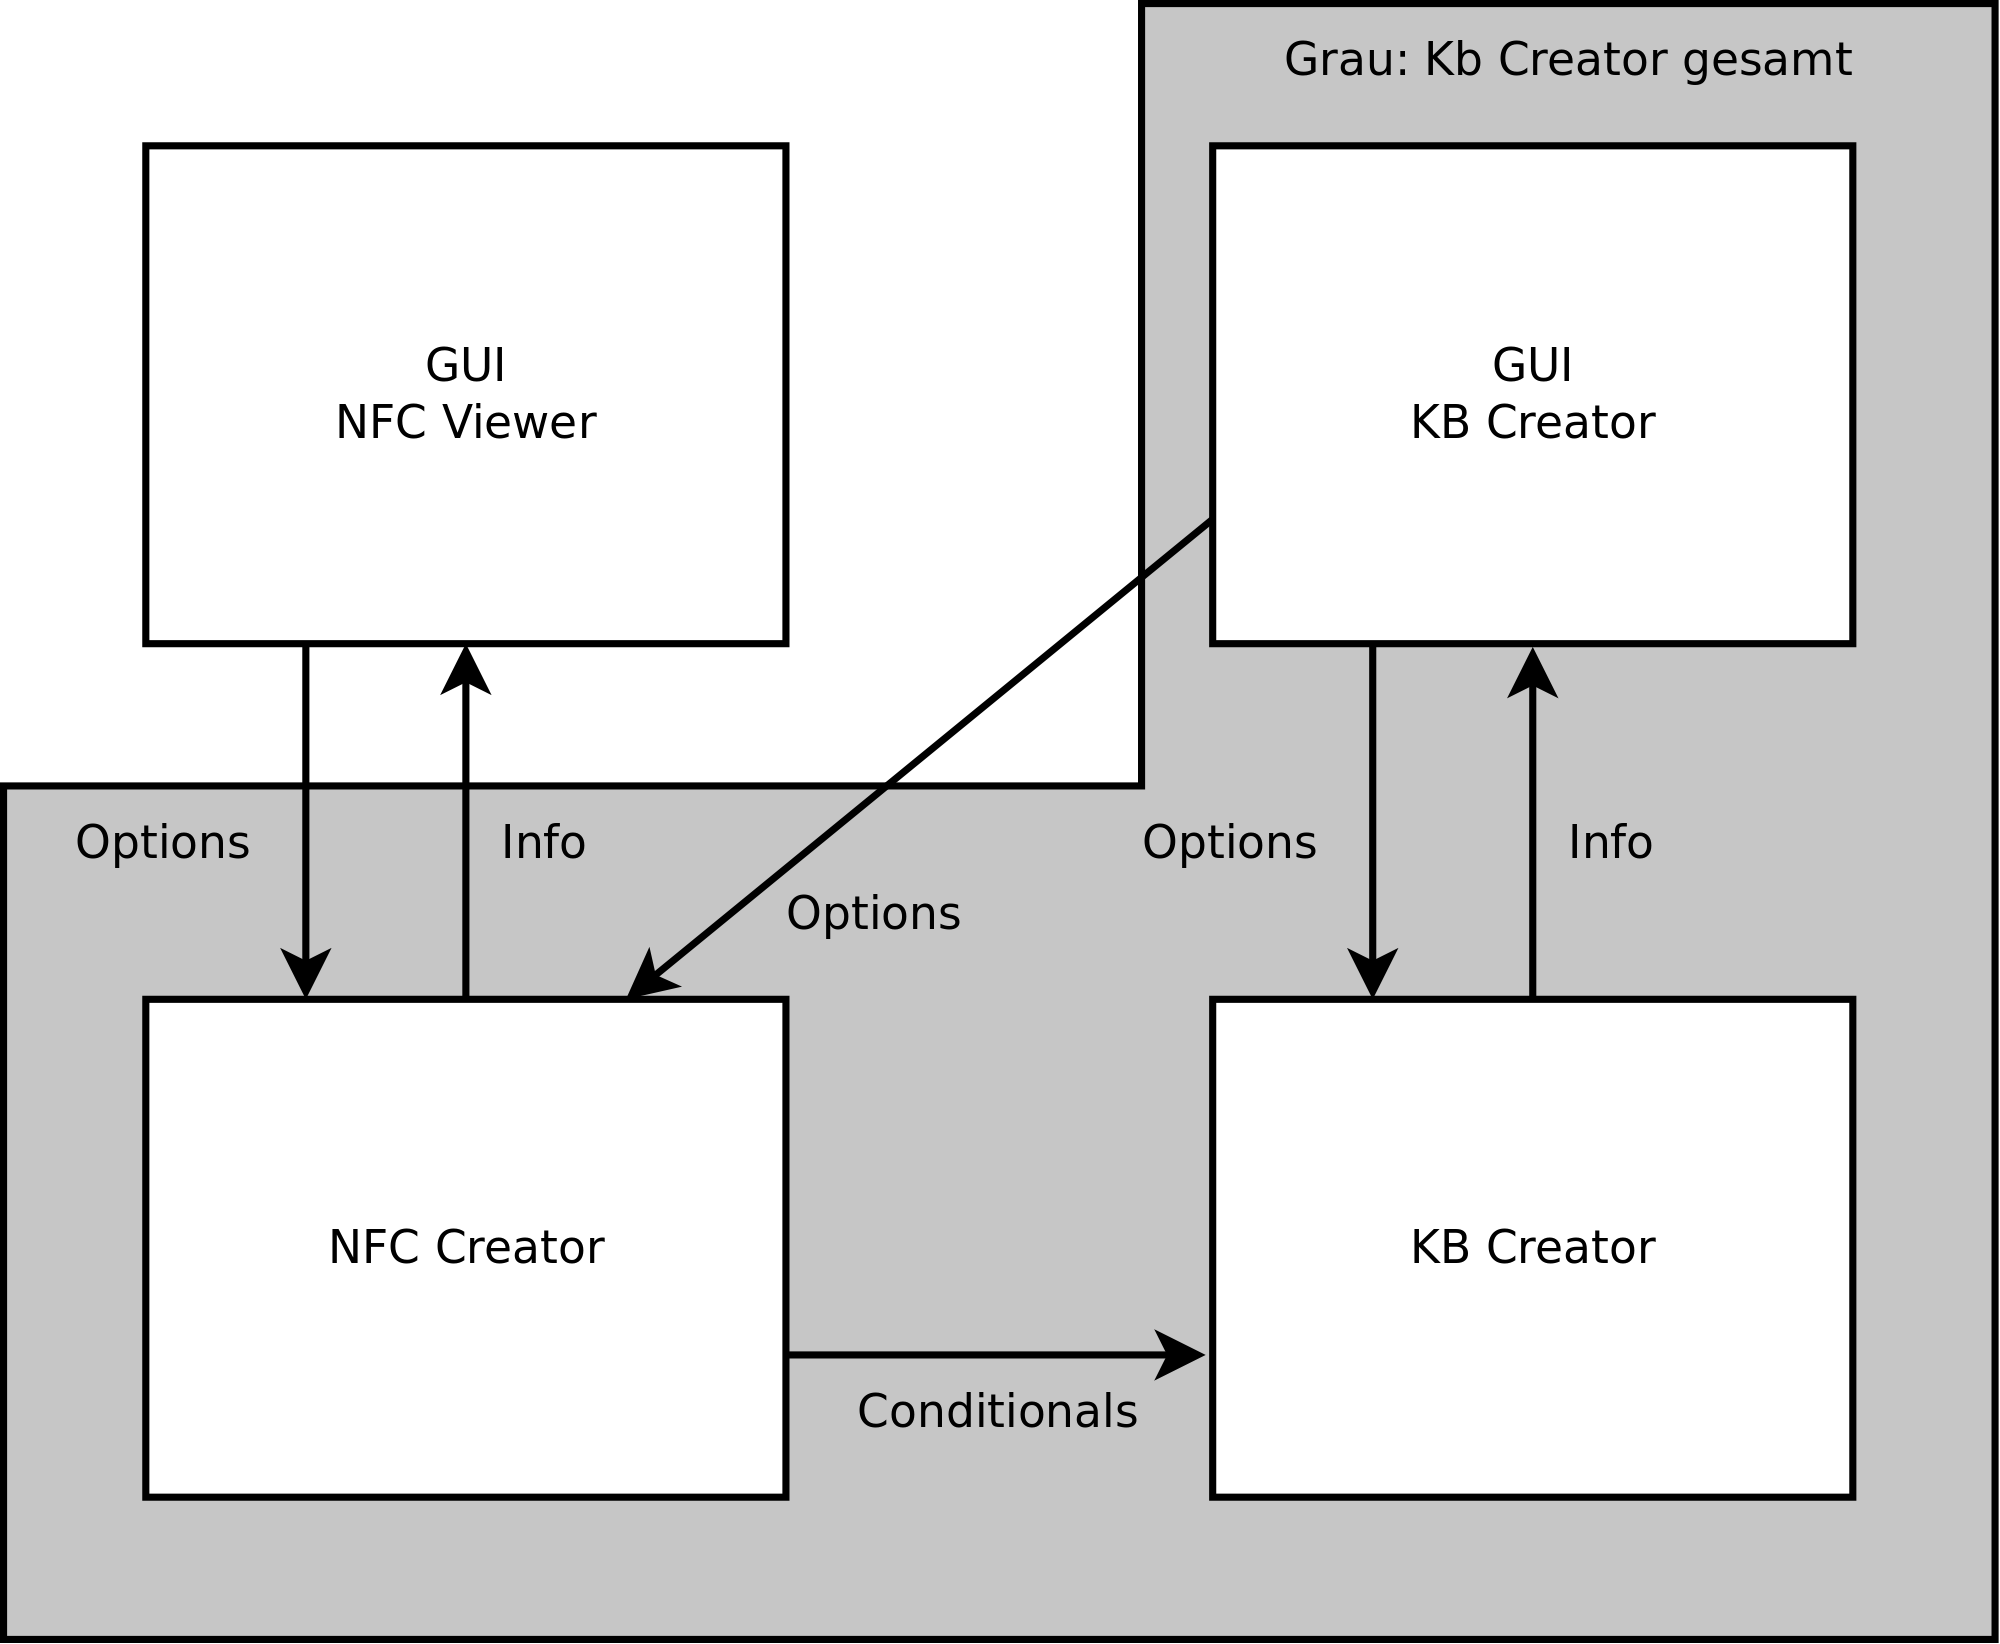
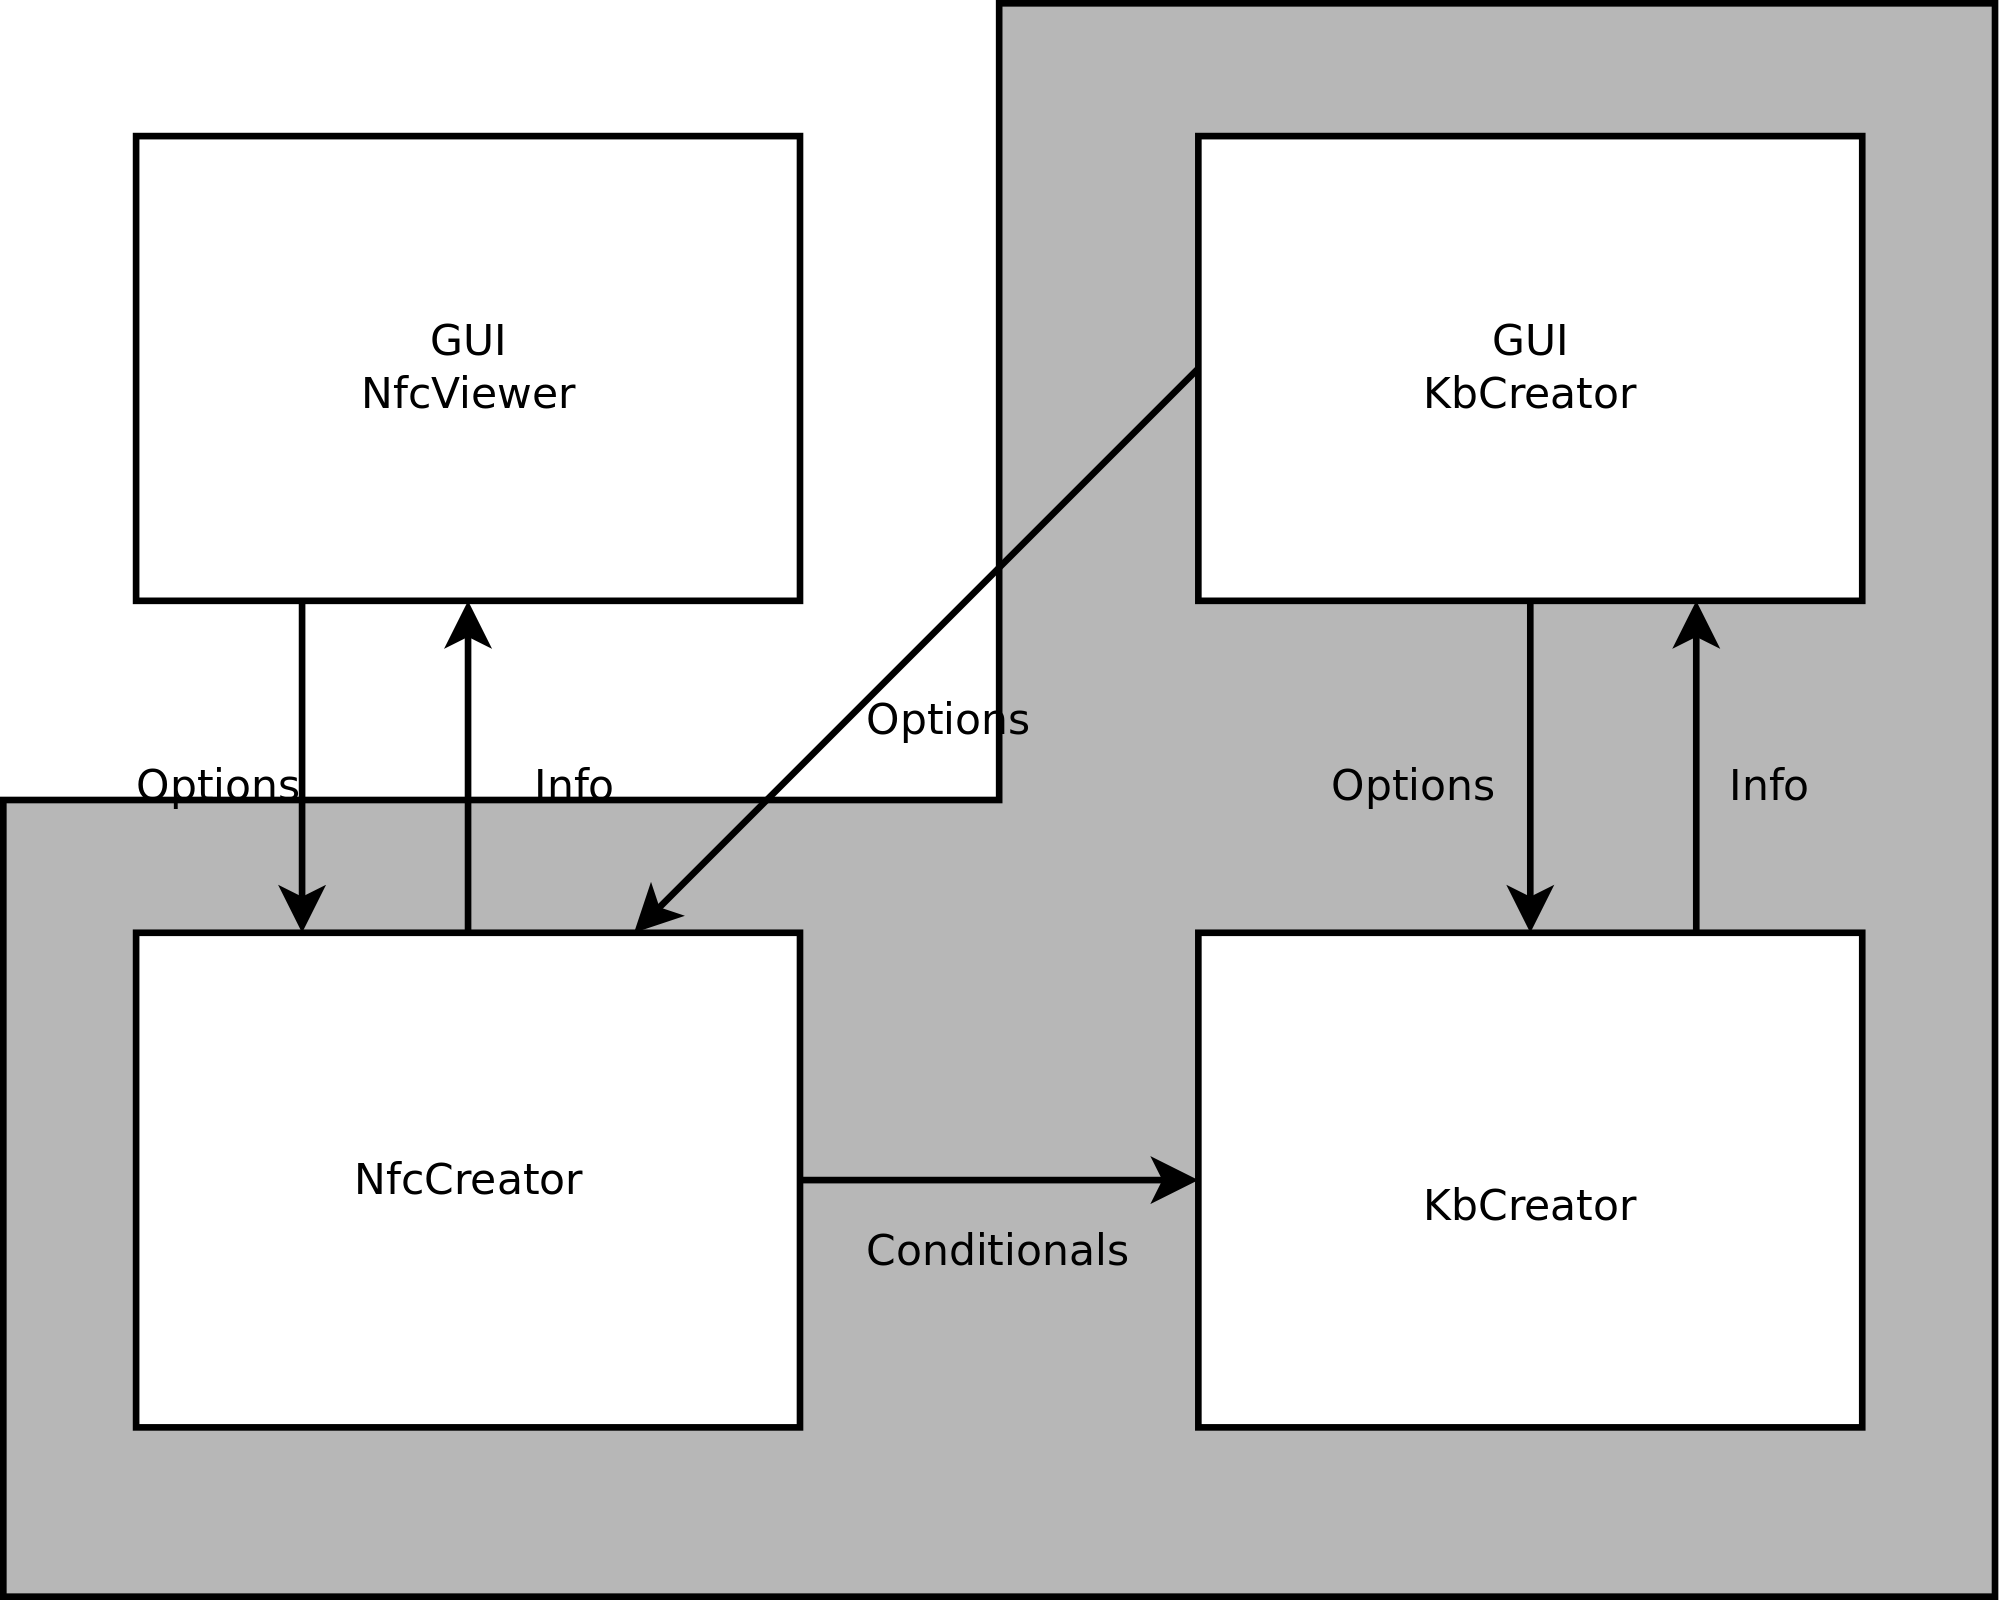
updated todo

diff --git a/ma.tex b/ma.tex
@@ -227,9 +227,8 @@ mit $r \rdotl r'$ gdw. $r\dotl r'$ für alle $i \in \{1, ..., m\}$ und alle $r, 
 Das beschriebene Programm zum Generieren von Wissensbasen ist komplett in Java geschrieben und erfordert zur Benutzung Java in der Version 1.8 oder höher. Neben der von Java standardmäßig mitgebrachten Runtime Environment werden keine weiteren externen Bibliotheken benötigt.
 \subsection{Struktur des Programms}
 In \autoref{pic:overview} ist ein Gesamtüberblick auf das erstelle Programm zu sehen. Die drei Elemente die sich im grau hinterlegten Bereich befinden sind für das generieren der Wissensbasen zuständig. Oben rechts ist die GUI abgebildet, in der zu Programmstart Optionen gesetzt werden und während des Programmablaufs Informationen zum aktuellen Programmzustand angezeigt werden. Unten links befindet sich der NfcCreator, hier werden die Konditionale NFC anhand der eingestellten Optionen erstellt. Diese Konditionale werden dann an den KbCreator übergeben, welcher für die eigentliche Generierung der Wissensbasen zuständig ist. Der KbCreator ist mit Abstand der komplexeste Teil des Programms und wird im nächsten Abschnitt noch genauer dargestellt. Die GUI oben links NfcViewer ist optional und kann genutzt werden um die Konditionale nach verschiedenen Optionen zu erzeugen, zu betrachten und zu speichern.
-\\todo: groß/kleinschreibung wie im programm
 \begin{figure}
-\includegraphics[width=0.6\linewidth]{bilder/overview.png}
+\includegraphics[width=0.7\linewidth]{bilder/overview.png}
 
 \caption{Gesamtübersicht über das erstelle Programm}
 \label{pic:overview}
@@ -239,7 +238,7 @@ In \autoref{pic:overview} ist ein Gesamtüberblick auf das erstelle Programm zu 
 
 \subsection{Threading}
 todo
-hier threading!
+threading besser zu kb creator? auf jeden fall dafür eine übersicht mit dia
 
 \section{Berechnung der Konditionale}
 
@@ -664,11 +663,9 @@ Die \textit{equals(Object o)} Methode der Klasse PCodnitional ist der Einfachhei
 In diesem Abschnitt wird beschrieben, wie die Konditionale aus der Form als Instanzen von WConditional als Instanzen von PConditional übertragen werden. Genauer gesagt ist der interessante Teil, wie Antecedent und Consequence jeweils aus der Form WorldsList in die Form AbstractFormula gebracht werden. \\
 Dabei sind zwei grundsätzliche Vorgehensweisen vorstellbar: Zum ersten der Ansatz, der im Folgenden als \textit{nativer} Ansatz benannt wird: Die Liste der möglichen Welten wird einfach als Disjunktion von Konjunktionen aufgefasst. Als Beispiel, unter Signatur $\Sigma_{ab}$ sei Liste Möglicher Welten $ab, !ab$ gegeben. Dann ist der aussagenlogische Term dafür $(a \wedge b) \vee (\overline{a}\wedge b)$. Dieser Term ist recht umständlich, aber korrekt. Man bedenke auch, dass mit der Signatur $\Sigma_{abc}$ durch 8 mögliche Welten noch wesentlich umständlichere Terme entstehen werden. Der zweite Ansatz für die Übersetzung ist, den kürzesten möglichen Term zu suchen. Im genannten Beispiel ist das $a$. Das ist allerdings weit weniger einfach automatisierbar wie die erste Variante. \\
 Es wäre naheliegend, dass die zweite Variante, da sie oft wesentlich kürzere Terme erzeugt, schneller sein sollte als die erste. Um den möglichen Geschwindigkeitsunterschied beider Ansätze zu testen, sind beiden Varianten im Programm implementiert.\\
-\\todo: translator beschreiben \\
-conjunktive normalform? das ist die einfache translation. siehe dazu auch \cite{beierle19b} s. 40 dazu. das ist ok so? \\
-tests mit translator: translated ca 245s ohne translation etwa 270s.
-mit beiden varianten im objekt auch etwa 270s !! liegt das an der objektgröße?! muss ja \\
-also translation nur sinnvoll, wenn so geschrieben werden kann.
+\\todo: translator beschreiben. auch den versuch beschreiben. und bei normalform bleiben. \\
+conjunktive normalform? das ist die einfache translation. siehe dazu auch \cite{beierle19b} s. 40 dazu.  \\
+
 \subsection{Wissensbasen}
 
 
@@ -912,5 +909,6 @@ Das ließe sich durch Multi Threading lösen. Ein Ansatz für GenKB mit Multi Th
 
 \section*{Abbildungsverzeichnis}
 Alle Abbildungen in diesem Dokument sind eigene Darstellungen. Die Klassendiagramme wurden mit der Sofware \glqq Dia\grqq \space erstellt. Screenshots wurden mit dem Programm \glqq Xfce4-Screenshooter \grqq \space erstellt.
+\\todo: andere dia dinger erwähnen
 \bibliography{lit} 
 \end{document}
